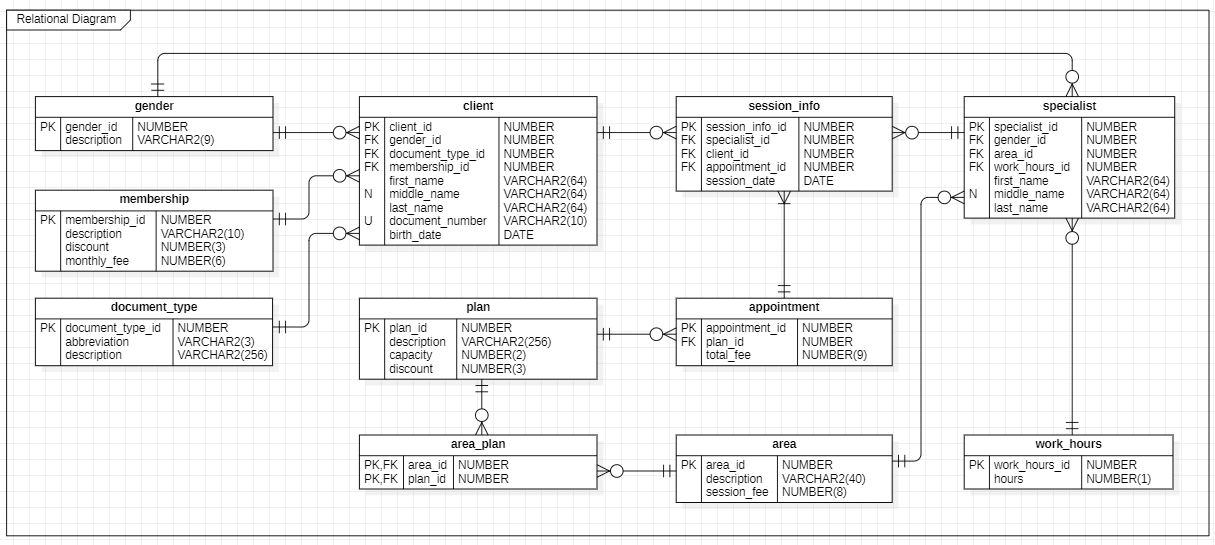
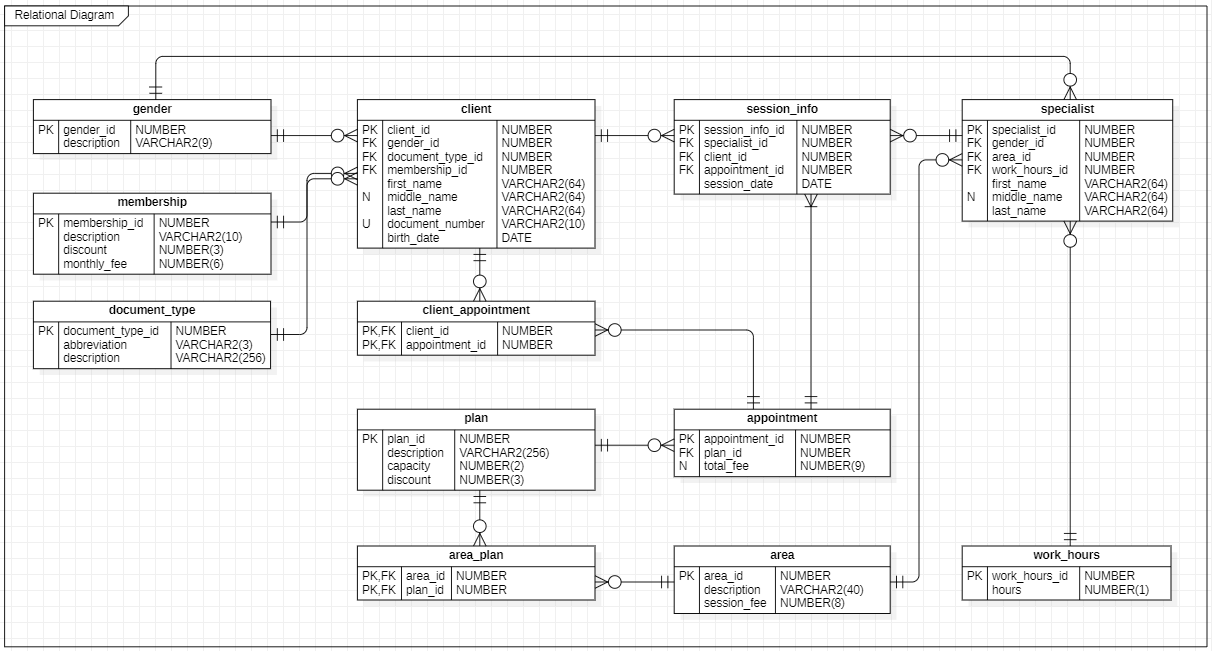
C: Save Appointment

diff --git a/src/main/java/com/techcamp/spa/domain/service/AppointmentServiceImpl.java b/src/main/java/com/techcamp/spa/domain/service/AppointmentServiceImpl.java
@@ -3,20 +3,49 @@ package com.techcamp.spa.domain.service;
 import com.techcamp.spa.domain.data.AppointmentDto;
 import com.techcamp.spa.domain.ports.api.AppointmentServicePort;
 import com.techcamp.spa.domain.ports.spi.AppointmentPersistencePort;
+import com.techcamp.spa.domain.ports.spi.PlanPersistencePort;
 
+import java.util.ArrayList;
 import java.util.List;
+import java.util.stream.Collectors;
 
 public class AppointmentServiceImpl implements AppointmentServicePort {
 
     private final AppointmentPersistencePort appointmentPersistencePort;
 
-    public AppointmentServiceImpl(AppointmentPersistencePort appointmentPersistencePort) {
+    private final PlanPersistencePort planPersistencePort;
+
+    public AppointmentServiceImpl(AppointmentPersistencePort appointmentPersistencePort,
+                                  PlanPersistencePort planPersistencePort) {
         this.appointmentPersistencePort = appointmentPersistencePort;
+        this.planPersistencePort = planPersistencePort;
     }
 
     @Override
-    public AppointmentDto save(AppointmentDto appointment) {
-        return appointmentPersistencePort.save(appointment);
+    public AppointmentDto save(AppointmentDto appointment) throws IllegalArgumentException {
+        int planCapacity = planPersistencePort.getById(appointment.getPlanId()).getCapacity();
+        int clientListSize = (appointment.getClientList()==null) ? 0 : appointment.getClientList().size();
+        if (clientListSize == 0) {
+            throw new IllegalArgumentException("La cantidad de clientes no puede ser cero");
+        } else if (planCapacity >= clientListSize) {
+            List<Long> clientIdList = new ArrayList<>();
+            appointment.setClientList(appointment.getClientList()
+                    .stream()
+                    .map(clientDto -> {
+                        Long clientId = clientDto.getClientId();
+                        if (!clientIdList.contains(clientId)) {
+                            clientIdList.add(clientId);
+                            return clientDto;
+                        } else {
+                            throw new IllegalArgumentException("Clientes duplicados en el agendamiento");
+                        }
+                    })
+                    .collect(Collectors.toList())
+            );
+            return appointmentPersistencePort.save(appointment);
+        } else {
+            throw new IllegalArgumentException("La cantidad de clientes excede la capacidad del plan agendado");
+        }
     }
 
     @Override

diff --git a/src/main/java/com/techcamp/spa/infrastructure/mapper/AppointmentMapper.java b/src/main/java/com/techcamp/spa/infrastructure/mapper/AppointmentMapper.java
@@ -10,9 +10,12 @@ public class AppointmentMapper extends Mapper<AppointmentDto, Appointment> {
 
     private final PlanMapper planMapper;
 
+    private final ClientMapper clientMapper;
+
     @Autowired
-    public AppointmentMapper(PlanMapper planMapper) {
+    public AppointmentMapper(PlanMapper planMapper, ClientMapper clientMapper) {
         this.planMapper = planMapper;
+        this.clientMapper = clientMapper;
     }
 
     @Override
@@ -22,6 +25,7 @@ public class AppointmentMapper extends Mapper<AppointmentDto, Appointment> {
                 .planId(appointment.getPlanId())
                 .totalFee(appointment.getTotalFee())
                 .plan(planMapper.toDomain(appointment.getPlan()))
+                .clientList(clientMapper.toDomainList(appointment.getClientList()))
                 .build() : null;
     }
 
@@ -31,6 +35,7 @@ public class AppointmentMapper extends Mapper<AppointmentDto, Appointment> {
                 .appointmentId(appointment.getAppointmentId())
                 .planId(appointment.getPlanId())
                 .totalFee(appointment.getTotalFee())
+                .clientList(clientMapper.toEntityList(appointment.getClientList()))
                 .build() : null;
     }
 }

diff --git a/src/main/java/com/techcamp/spa/application/controller/AppointmentController.java b/src/main/java/com/techcamp/spa/application/controller/AppointmentController.java
@@ -43,7 +43,7 @@ public class AppointmentController {
                 AppointmentDto appointmentSaved = appointmentServicePort.save(appointment);
                 return new ResponseEntity<>(appointmentServicePort.getById(appointmentSaved.getAppointmentId()), HttpStatus.CREATED);
             } else {
-                throw new IllegalStateException();
+                throw new IllegalArgumentException("No incluir el costo total en la petición");
             }
 
         } catch (NoSuchElementException e) {
@@ -51,8 +51,8 @@ public class AppointmentController {
         } catch (DataIntegrityViolationException e) {
             dataIntegrityViolationExceptionHandler(e);
             return null;
-        } catch (IllegalStateException e) {
-            throw new ResponseStatusException(HttpStatus.BAD_REQUEST, "No incluir el costo total en la petición");
+        } catch (IllegalArgumentException e) {
+            throw new ResponseStatusException(HttpStatus.BAD_REQUEST, e.getMessage());
         }
     }
 

diff --git a/src/main/java/com/techcamp/spa/infrastructure/entity/Plan.java b/src/main/java/com/techcamp/spa/infrastructure/entity/Plan.java
@@ -4,6 +4,8 @@ import lombok.AllArgsConstructor;
 import lombok.Builder;
 import lombok.Data;
 import lombok.NoArgsConstructor;
+import org.hibernate.annotations.LazyCollection;
+import org.hibernate.annotations.LazyCollectionOption;
 
 import javax.persistence.*;
 import java.util.List;
@@ -26,12 +28,13 @@ public class Plan {
     @Column(name = "DISCOUNT", nullable = false)
     private Byte discount;
 
-    @ManyToMany(fetch = FetchType.EAGER, cascade = CascadeType.ALL)
+    @ManyToMany(cascade = CascadeType.ALL)
     @JoinTable(
             name = "AREA_PLAN",
             joinColumns = @JoinColumn(name = "PLAN_ID", nullable = false),
             inverseJoinColumns = @JoinColumn(name = "AREA_ID", nullable = false)
     )
+    @LazyCollection(LazyCollectionOption.FALSE)
     private List<Area> areas;
 
 }

diff --git a/src/main/java/com/techcamp/spa/infrastructure/mapper/Mapper.java b/src/main/java/com/techcamp/spa/infrastructure/mapper/Mapper.java
@@ -18,11 +18,11 @@ public abstract class Mapper<D, E> {
                 .collect(Collectors.toList()) : null;
     }
 
-//    public List<E> toEntityList(List<D> dtoList) {
-//        return (dtoList != null) ? dtoList.stream()
-//                .map(this::toEntity)
-//                .collect(Collectors.toList()) : null;
-//    }
+    public List<E> toEntityList(List<D> dtoList) {
+        return (dtoList != null) ? dtoList.stream()
+                .map(this::toEntity)
+                .collect(Collectors.toList()) : null;
+    }
 
     public Page<D> toDomainPage(Page<E> entityPage) {
         return entityPage.map(this::toDomain);

diff --git a/src/main/java/com/techcamp/spa/infrastructure/entity/Appointment.java b/src/main/java/com/techcamp/spa/infrastructure/entity/Appointment.java
@@ -6,6 +6,7 @@ import lombok.Data;
 import lombok.NoArgsConstructor;
 
 import javax.persistence.*;
+import java.util.List;
 
 @Entity
 @Table(name = "APPOINTMENT")
@@ -26,4 +27,12 @@ public class Appointment {
     @ManyToOne
     @JoinColumn(name = "PLAN_ID", insertable = false, updatable = false)
     private Plan plan;
+
+    @ManyToMany(fetch = FetchType.EAGER)
+    @JoinTable(
+            name = "CLIENT_APPOINTMENT",
+            joinColumns = @JoinColumn(name = "APPOINTMENT_ID", nullable = false),
+            inverseJoinColumns = @JoinColumn(name = "CLIENT_ID", nullable = false)
+    )
+    private List<Client> clientList;
 }

diff --git a/src/main/java/com/techcamp/spa/infrastructure/adapter/PlanPersistenceAdapter.java b/src/main/java/com/techcamp/spa/infrastructure/adapter/PlanPersistenceAdapter.java
@@ -35,6 +35,11 @@ public class PlanPersistenceAdapter implements PlanPersistencePort {
     }
 
     @Override
+    public PlanDto getById(Byte id) throws NoSuchElementException {
+        return planMapper.toDomain(planJpaRepository.findById(id).orElseThrow());
+    }
+
+    @Override
     public PlanDto update(PlanDto planDto) throws NoSuchElementException {
         if (planDto.getPlanId() == null) {
             throw new DataIntegrityViolationException("PlanId no ingresado");

diff --git a/src/main/java/com/techcamp/spa/domain/data/AppointmentDto.java b/src/main/java/com/techcamp/spa/domain/data/AppointmentDto.java
@@ -5,6 +5,8 @@ import lombok.Builder;
 import lombok.Data;
 import lombok.NoArgsConstructor;
 
+import java.util.List;
+
 @Data
 @AllArgsConstructor
 @NoArgsConstructor
@@ -14,4 +16,5 @@ public class AppointmentDto {
     private Byte planId;
     private PlanDto plan;
     private Integer totalFee;
+    private List<ClientDto> clientList;
 }

diff --git a/src/main/java/com/techcamp/spa/domain/service/PlanServiceImpl.java b/src/main/java/com/techcamp/spa/domain/service/PlanServiceImpl.java
@@ -24,6 +24,11 @@ public class PlanServiceImpl implements PlanServicePort {
     }
 
     @Override
+    public PlanDto getById(Byte id) {
+        return planPersistencePort.getById(id);
+    }
+
+    @Override
     public PlanDto update(PlanDto plan) {
         return planPersistencePort.update(plan);
     }

diff --git a/src/main/java/com/techcamp/spa/configuration/CrudConfig.java b/src/main/java/com/techcamp/spa/configuration/CrudConfig.java
@@ -96,7 +96,7 @@ public class CrudConfig {
 
     @Bean
     public AppointmentServicePort appointmentService() {
-        return new AppointmentServiceImpl(appointmentPersistence());
+        return new AppointmentServiceImpl(appointmentPersistence(), planPersistence());
     }
 
     @Bean

diff --git a/src/main/java/com/techcamp/spa/domain/ports/spi/PlanPersistencePort.java b/src/main/java/com/techcamp/spa/domain/ports/spi/PlanPersistencePort.java
@@ -9,6 +9,8 @@ public interface PlanPersistencePort {
 
     List<PlanDto> getAll();
 
+    PlanDto getById(Byte id);
+
     PlanDto update(PlanDto plan);
 
     void deleteById(Byte planId);

diff --git a/src/main/java/com/techcamp/spa/domain/ports/api/PlanServicePort.java b/src/main/java/com/techcamp/spa/domain/ports/api/PlanServicePort.java
@@ -9,6 +9,8 @@ public interface PlanServicePort {
 
     List<PlanDto> getAll();
 
+    PlanDto getById(Byte id);
+
     PlanDto update(PlanDto plan);
 
     void deleteById(Byte planId);
